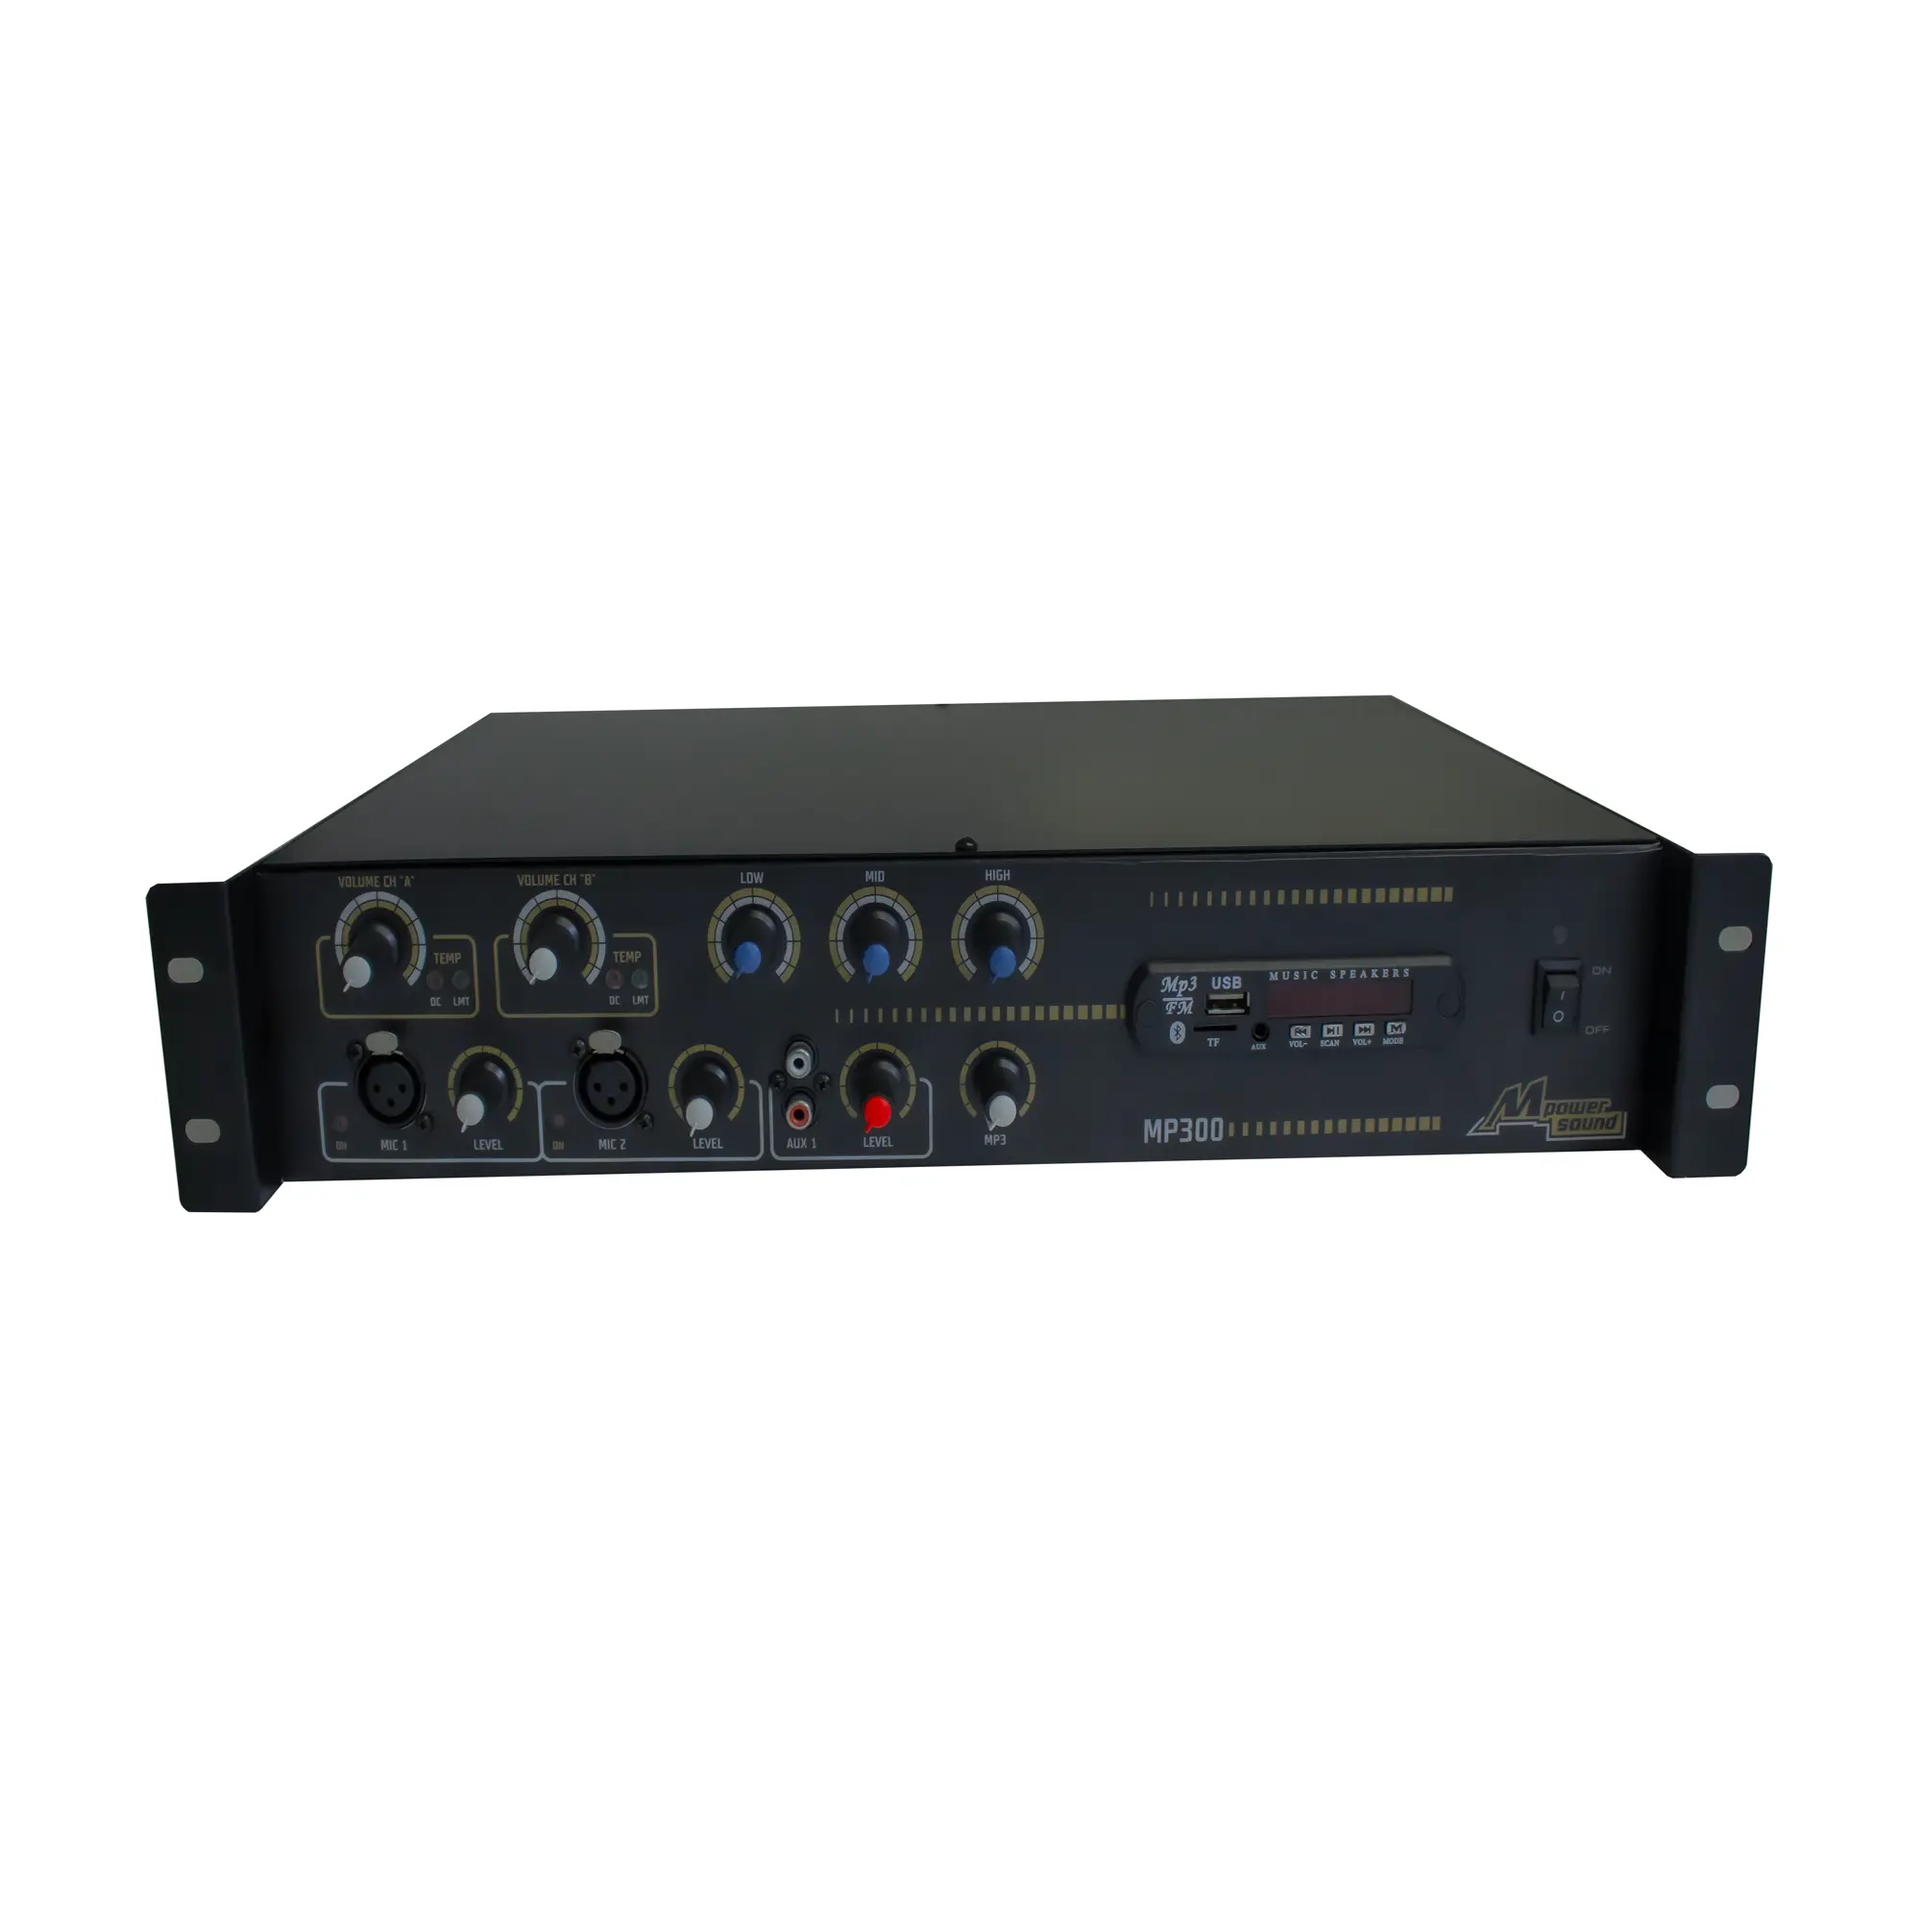
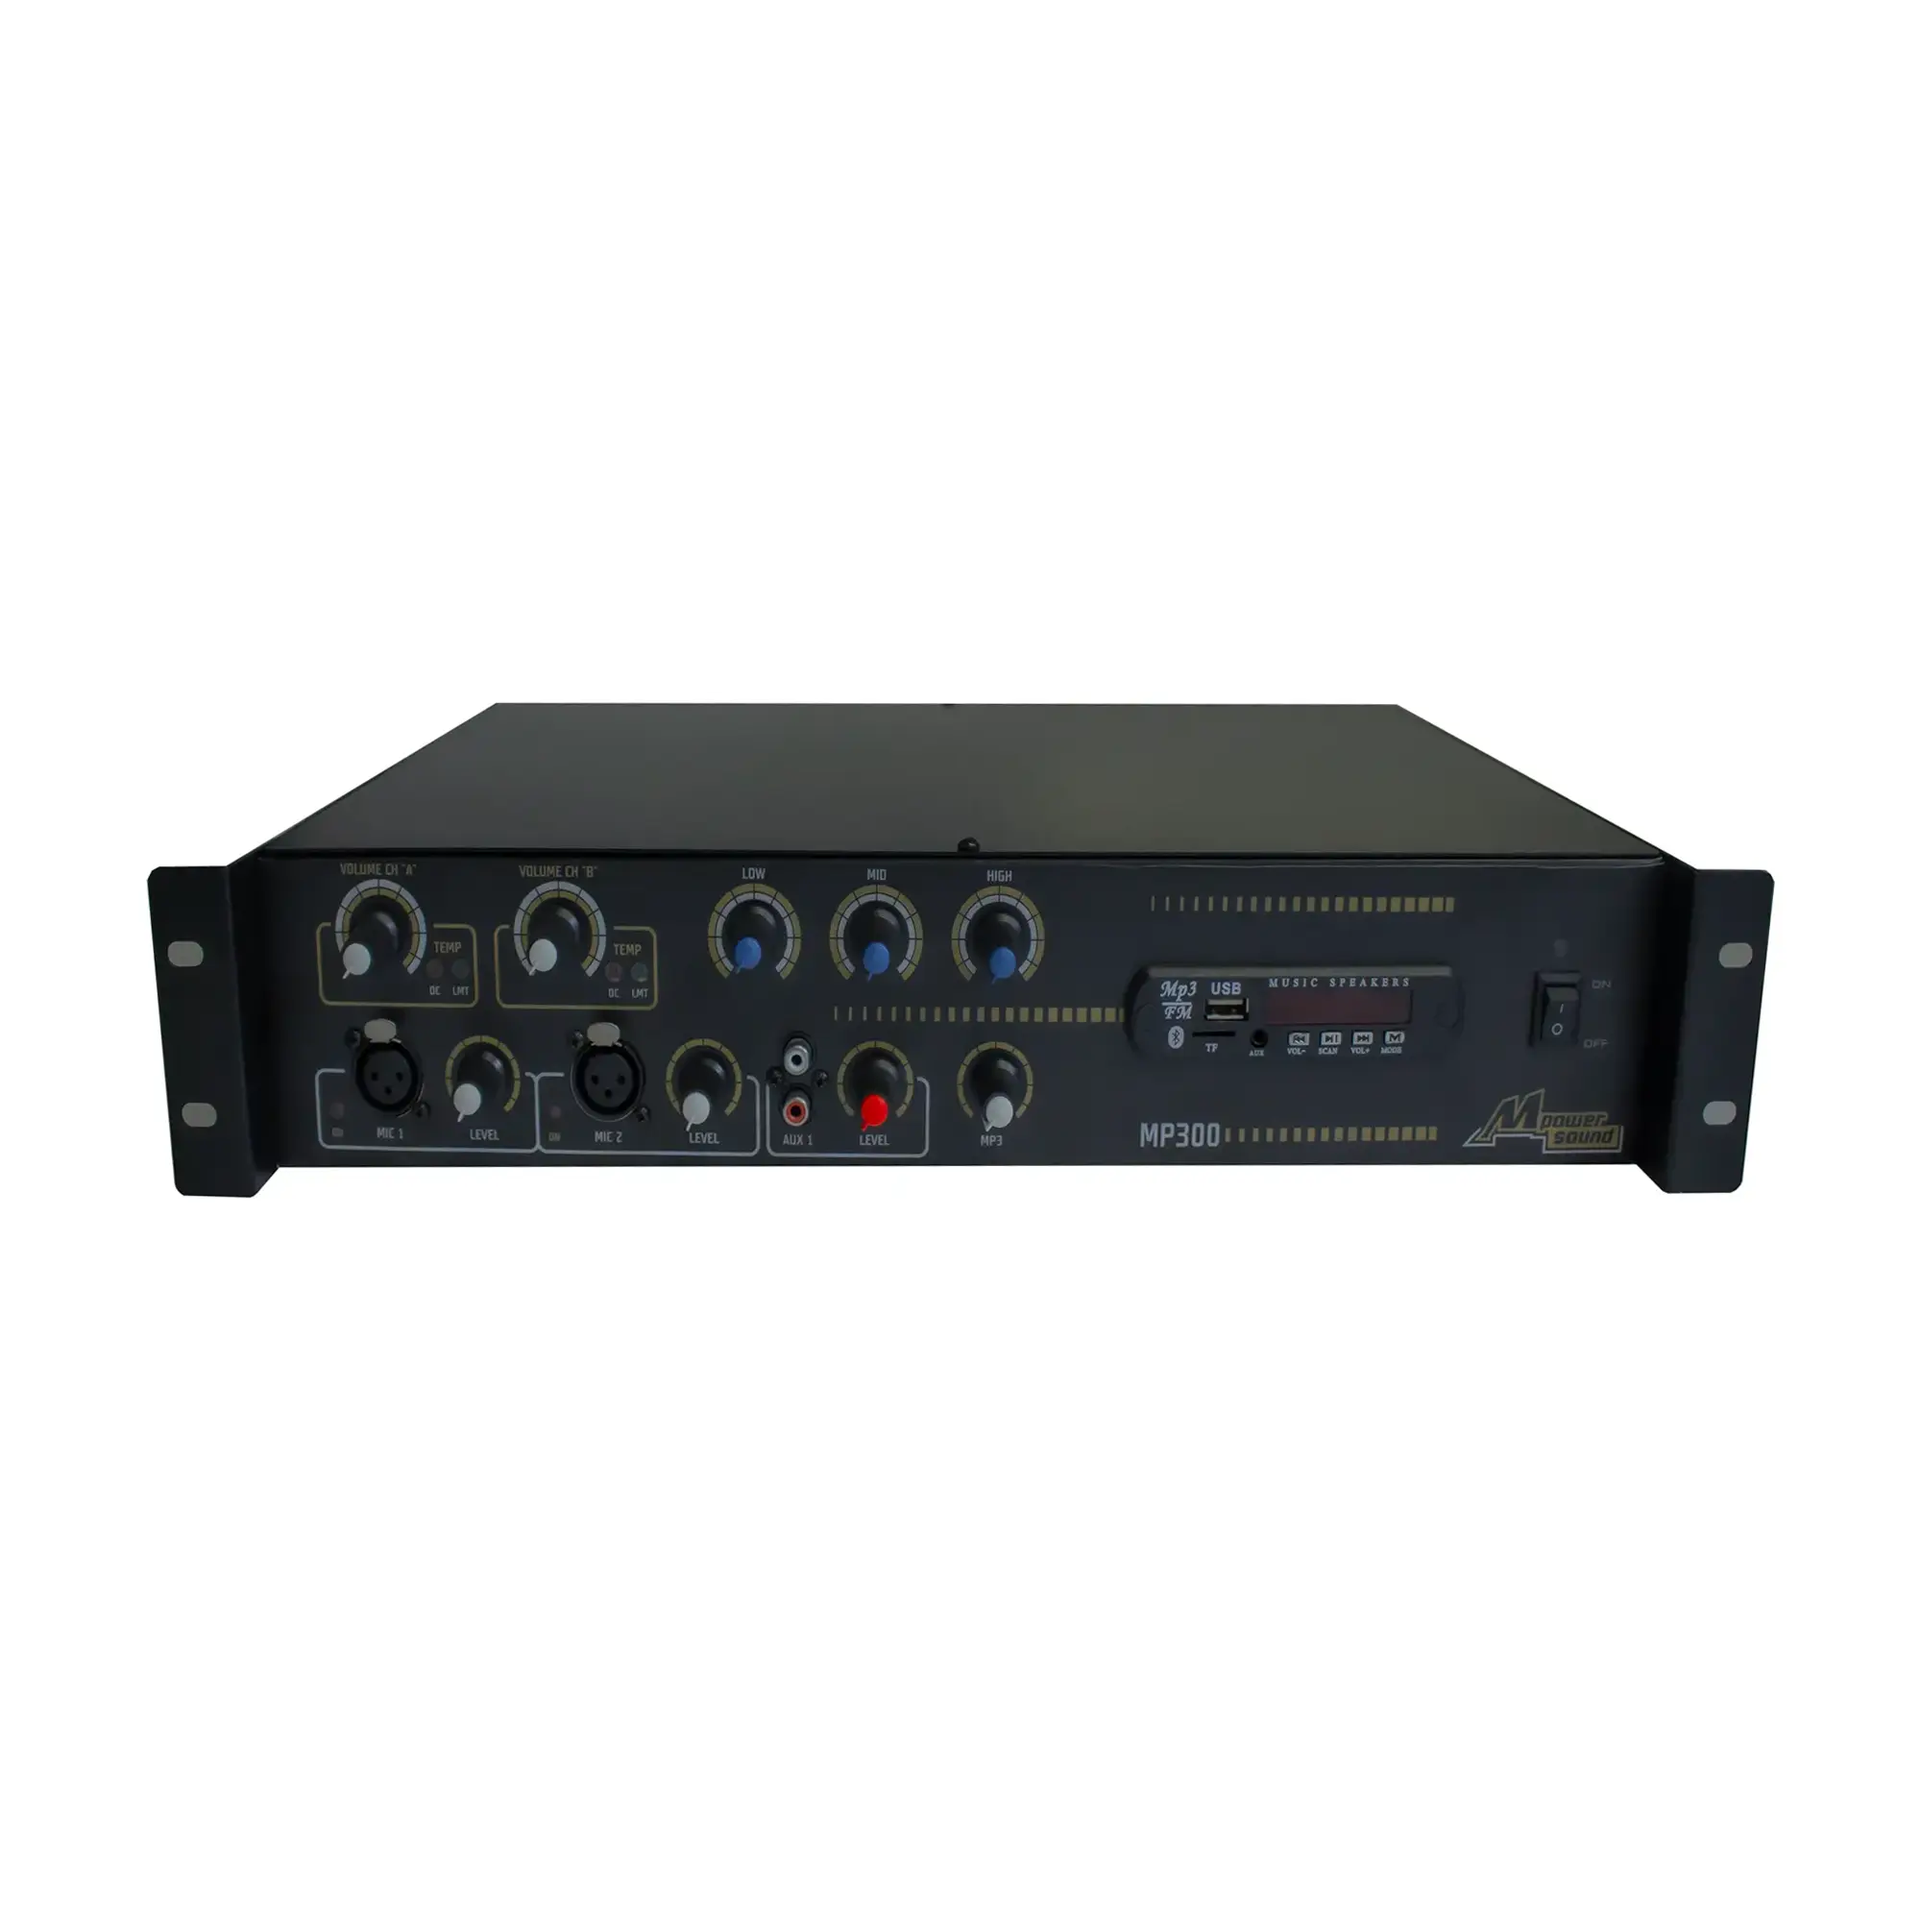
last changes m power sound

diff --git a/src/components/PromotionalBanner.vue b/src/components/PromotionalBanner.vue
@@ -6,24 +6,24 @@ const router = useRouter();
 
 const items = ref([
     {
-        title: 'Caixas Amplificadoras',
+        title: 'Caixa Amplificadora MP200',
         description: 'Potência, qualidade e som incomparável. <br> Encontre o amplificador perfeito.',
-        img: '/banner/product-2.webp',
-        class: 'h-52 md:h-36 lg:h-48',
-        saleDiscount: 'Todos com <bold class="font-black text-yellow-500 lg:text-[1.34rem]">15%</bold> de desconto!'
+        img: '/banner/product-2.png',
+        class: 'h-64 md:h-36 lg:h-64',
+        saleDiscount: 'Todos com <bold class="font-black text-yellow-500 lg:text-[1.34rem]">10%</bold> de desconto!'
     },
     {
-        title: 'Amplificadores de Potência',
-        description: '•&nbsp; A melhor potência para seu som! <br> •&nbsp; Encontre o amplificador ideal para você. <br> •&nbsp; A maior qualidade do mercado atual.',
-        img: '/banner/product-1.webp',
-        class: 'h-52 md:h-36 lg:h-48',
+        title: 'Receiver Digital MP250',
+        description: '•&nbsp; A melhor potência para seu som! <br> •&nbsp; Excelente custo benefício! <br> •&nbsp; 10% de desconto!',
+        img: '/banner/product-1.png',
+        class: 'h-64 md:h-36 lg:h-64',
     },
     {
         title: 'Kits M Power Sound',
         description: 'Som de alta fidelidade para sua experiência! <br> A maior qualidade do mercado atual.',
-        img: '/banner/product-3.webp',
-        class: 'h-52 md:h-36 lg:h-48',
-        saleDiscount: 'Melhor custo <bold class="font-black text-yellow-500 lg:text-[1.34rem]">benefício!</bold>'
+        img: '/banner/product-3.png',
+        class: 'h-64 md:h-36 lg:h-64',
+        saleDiscount: 'Todos com <bold class="font-black text-yellow-500 lg:text-[1.34rem]">10%</bold> de desconto!'
     }
 ]);
 

diff --git a/src/components/AppHeader.vue b/src/components/AppHeader.vue
@@ -18,8 +18,8 @@ const goToGallery = (filter) => {
 		<section class="flex w-full flex-col items-center md:items-start justify-center mb-28">
 			<div class="flex w-full flex-col-reverse md:flex-row-reverse items-center justify-between">
 				<div class="group">
-					<img @click="goToGallery('promoção')" src="../assets/img/promotion-image.webp" alt="Item em promoção destaque" class="object-contain transform transition-transform duration-300 ease-in-out group-hover:scale-110
-		       		-mt-8 h-[250px] md:h-[300px] lg:h-[320px] xl:h-[350px] 2xl:h-[390px]" loading="lazy" data-aos="fade-right"
+					<img @click="goToGallery('promoção')" src="/banner/product-2.png" alt="Item em promoção destaque" class="object-contain cursor-pointer transform transition-transform duration-300 ease-in-out group-hover:scale-110
+		       		-mt-8 h-[320px] md:h-[300px] lg:h-[360px] xl:h-[450px] 2xl:h-[490px]" loading="lazy" data-aos="fade-right"
 						data-aos-delay="300" />
 				</div>
 

diff --git a/src/store/product.js b/src/store/product.js
@@ -792,7 +792,7 @@ const useProductStore = defineStore('product', {
         "name": "Amplificador MP300 USB/SD",
         "img": "/products/mp300-1.webp",
         "img2": "/products/mp300-1.webp",
-        "size": "h-20",
+        "size": "h-24",
         "alt": "Imagem Produto",
         "manual": "manual-mp300.pdf",
         "description": "Amplificador de 300W RMS com múltiplas entradas e saídas, ideal para ambientes que exigem potência e qualidade sonora.",
